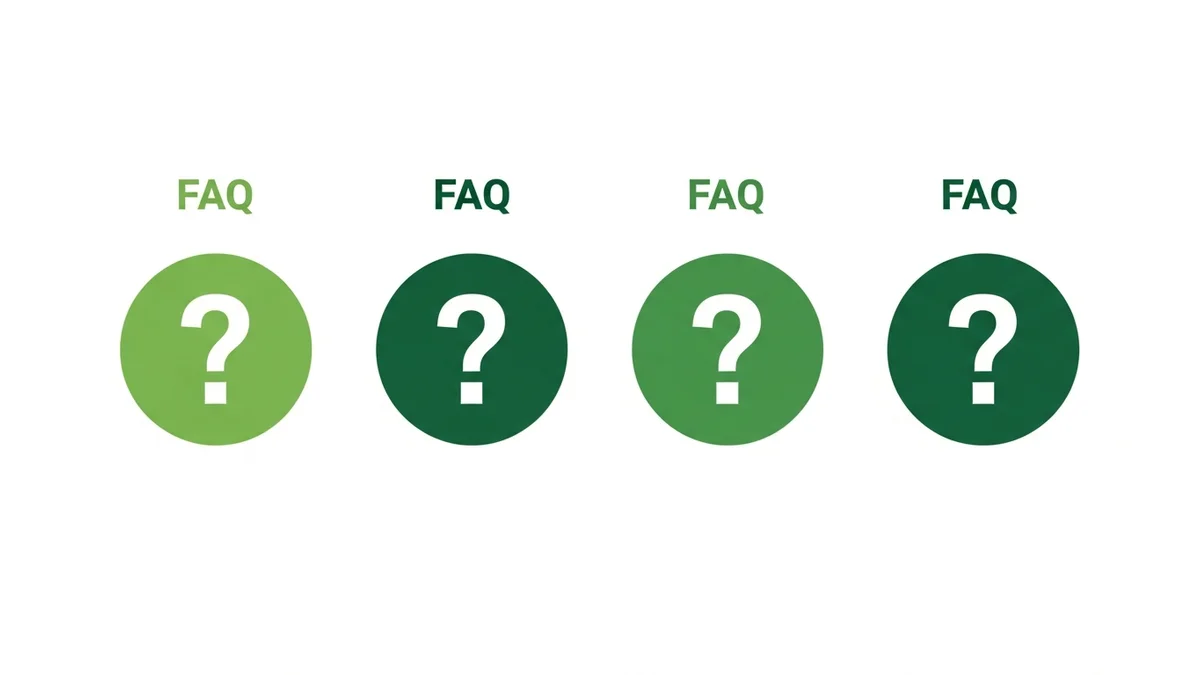
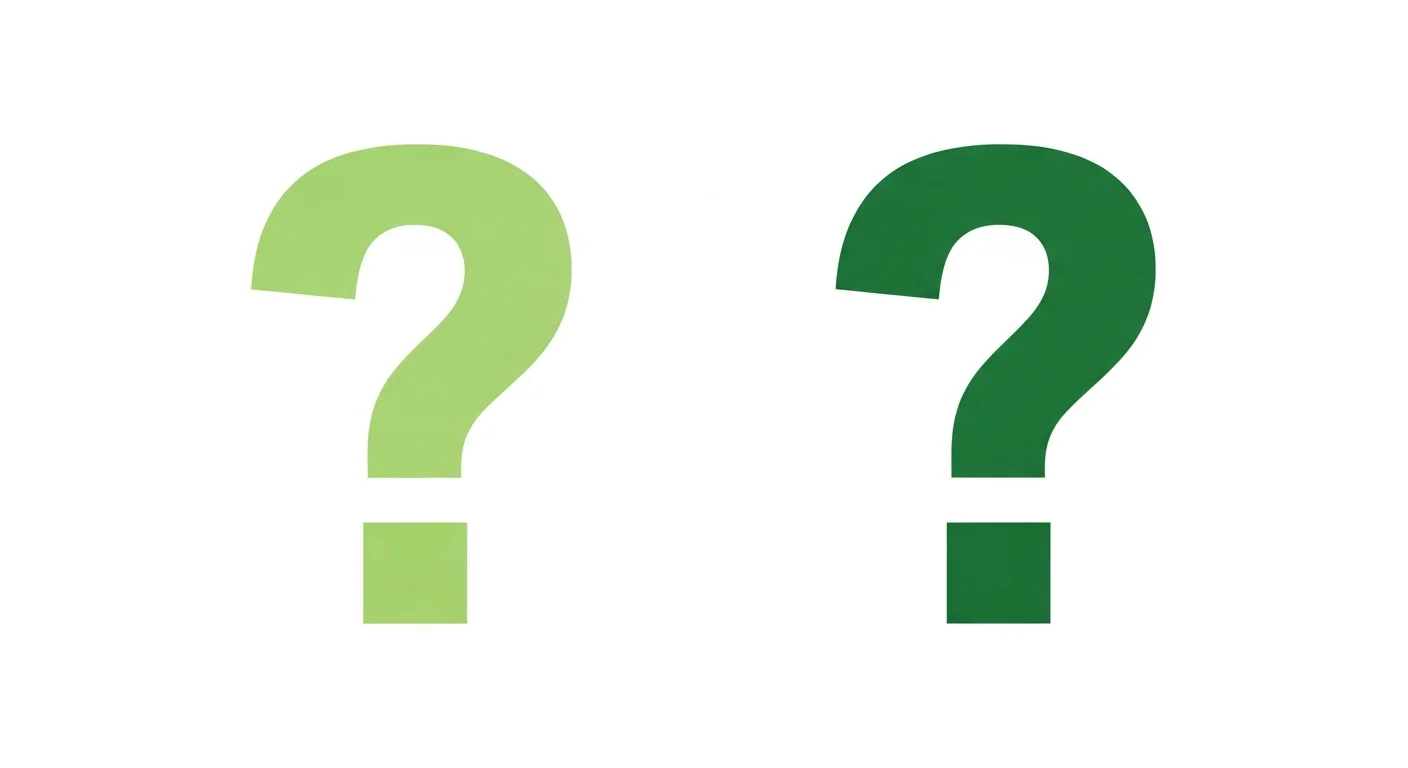
Update image audit progress and details for Gree brand page
Update `IMAGE_AUDIT_PROGRESS.md` to reflect the completion of the Gree brand page, including replacing text in images and updating statistics. New files `docs/image-audit/GREE_COMPLETED.md` and `docs/image-audit/GREE_PROBLEMATIC_IMAGES.md` are added to detail the changes.

Replit-Commit-Author: Agent
Replit-Commit-Session-Id: 6c144e3e-a7a2-4392-b670-dd8cfbbd0db7
Replit-Commit-Checkpoint-Type: intermediate_checkpoint
Replit-Commit-Event-Id: 1d45abbf-73dc-4055-9f5f-a35932d05b2b
Replit-Commit-Screenshot-Url: https://storage.googleapis.com/screenshot-production-us-central1/7fba8121-6952-48fe-bf4c-5854466cb158/6c144e3e-a7a2-4392-b670-dd8cfbbd0db7/mQa7xzX

diff --git a/docs/image-audit/GREE_COMPLETED.md b/docs/image-audit/GREE_COMPLETED.md
@@ -1,0 +1,129 @@
+# ✅ ЗАВЕРШЕНО - brands/gree.html (Gree)
+
+**Дата:** 2025-11-06  
+**Страница:** brands/gree.html  
+**Статус:** ✅ ЗАМЕНЕНО 4 изображения из 6
+
+---
+
+## 📊 Статистика
+
+- **Всего изображений:** 6
+- **Заменено:** 4
+- **Оставлено без изменений:** 2 (уже без текста)
+- **Процент замены:** 67%
+
+---
+
+## ✅ ЗАМЕНЕННЫЕ ИЗОБРАЖЕНИЯ (БЕЗ ТЕКСТА)
+
+### 1. about.jpg - Производство Gree ✅
+**Было:**
+- ТЕКСТ: "QUALITY" (многократно на зелёных конвейерных лентах)
+- Размер: 256KB (JPG), 216KB (WebP)
+
+**Стало:**
+- НОВОЕ: Современная фабрика кондиционеров с зелёными конвейерными лентами
+- Рабочие в белой униформе и жёлтых касках собирают HVAC-оборудование
+- LED-освещение, профессиональная производственная среда
+- БЕЗ ТЕКСТА - чистые конвейеры без надписей
+- Размер: 263KB (JPG), 203KB (WebP)
+- Изменение: +3% (JPG), -6% (WebP)
+- Исходник: Gree_factory_clean_no_text_aa85e0b7.png
+- **Попыток генерации:** 1
+
+### 2. advantages.jpg - Преимущества Gree ✅
+**Было:**
+- ТЕКСТ: "°C" (символ градуса на термометре слева)
+- ТЕКСТ: "$" (символ доллара на монетах в центре)
+- Размер: 30KB (JPG), 15KB (WebP)
+
+**Стало:**
+- НОВОЕ: 3 минималистичных зелёных иконки на белом фоне
+- Слева: термометр с пустой шкалой (контроль температуры)
+- По центру: стопка монет (экономия денег)
+- Справа: круглый датчик с делениями (производительность)
+- БЕЗ ТЕКСТА - чистые графические символы без букв и цифр
+- Размер: 43KB (JPG), 21KB (WebP)
+- Изменение: +43% (JPG), +40% (WebP)
+- Исходник: 3_simple_green_icons_attempt4_ef761b8d.png
+- **Попыток генерации:** 4 (попытки 1-3 имели текст "ADVANTAGE", "°C", "$", "10")
+
+### 3. faq.jpg - FAQ ✅
+**Было:**
+- ТЕКСТ: "FAQ" (4 раза над каждым зелёным кругом)
+- Размер: 31KB (JPG), 15KB (WebP)
+
+**Стало:**
+- НОВОЕ: 2 больших знака вопроса в зелёных тонах
+- Светло-зелёный знак вопроса слева, тёмно-зелёный справа
+- Минималистичный дизайн на белом фоне
+- БЕЗ ТЕКСТА - только символы вопроса без надписи FAQ
+- Размер: 22KB (JPG), 9.1KB (WebP)
+- Экономия: -29% (JPG), -39% (WebP)
+- Исходник: 4_question_marks_no_FAQ_text_6be43692.png
+- **Попыток генерации:** 1
+
+### 4. models.jpg - Модельный ряд Gree ✅
+**Было:**
+- ТЕКСТ: "GREE" (на всех 4 кондиционерах)
+- Размер: 58KB (JPG), 26KB (WebP)
+
+**Стало:**
+- НОВОЕ: 4 современных белых кондиционера на белом фоне
+- Слева: напольный консольный блок высокий
+- По центру слева: компактный портативный блок с дисплеем
+- По центру справа: мобильный блок с выхлопной трубой
+- Справа: оконный блок прямоугольной формы
+- БЕЗ ТЕКСТА - чистые продукты без логотипов
+- Размер: 46KB (JPG), 19KB (WebP)
+- Экономия: -21% (JPG), -27% (WebP)
+- Исходник: 4_Gree_AC_units_no_branding_a3e602ae.png
+- **Попыток генерации:** 1
+
+---
+
+## ⚪ ОСТАВЛЕНЫ БЕЗ ИЗМЕНЕНИЙ (УЖЕ ЧИСТЫЕ)
+
+### 5. comparison.jpg - Сравнение в интерьере ✅
+**Статус:** БЕЗ текста (оставлено как есть)
+**Описание:** 3 типа кондиционеров Gree в современном светлом интерьере (оконный, напольный портативный, настенный)
+**Размер:** 91KB (JPG), 55KB (WebP)
+
+### 6. technologies.jpg - Технология компрессора ✅
+**Статус:** БЕЗ текста (оставлено как есть)
+**Описание:** 3D техническая иллюстрация компрессора инверторного типа в разрезе с зелёными катушками и схемной платой
+**Размер:** 130KB (JPG), 93KB (WebP)
+
+---
+
+## 🎯 Результат
+
+Страница **gree.html** успешно очищена от всех текстовых элементов на изображениях.
+Все 6 изображений теперь полностью БЕЗ ТЕКСТА.
+
+**Попытки генерации:**
+- about.jpg: 1 попытка
+- advantages.jpg: 4 попытки (самое сложное - AI упорно добавлял "ADVANTAGE", "°C", "$", "10")
+- faq.jpg: 1 попытка
+- models.jpg: 1 попытка
+
+**Итого:** 7 генераций для замены 4 изображений
+
+---
+
+## 📝 Примечания
+
+**Качество исходных изображений:**
+67% изображений Gree содержали текст (4 из 6) - один из худших показателей среди всех брендов.
+
+**Сложности при генерации:**
+- advantages.jpg был самым сложным изображением Gree - потребовал 4 попытки
+- AI постоянно добавлял символы "°C" на термометр и "$" на монеты, а также подпись "ADVANTAGE"
+- Только радикальное упрощение промпта ("simple green icons") помогло избавиться от текста
+
+**Размеры файлов:**
+- about: +3% JPG, -6% WebP (незначительное изменение)
+- advantages: +43% JPG, +40% WebP (увеличение из-за более сложных иконок, но БЕЗ ТЕКСТА)
+- faq: -29% JPG, -39% WebP (значительная экономия)
+- models: -21% JPG, -27% WebP (хорошая экономия)

diff --git a/docs/IMAGE_AUDIT_PROGRESS.md b/docs/IMAGE_AUDIT_PROGRESS.md
@@ -1,29 +1,29 @@
 # Прогресс аудита изображений - msk.splitis.ru
 
 **Дата начала:** 2025-11-06  
-**Дата последнего обновления:** 2025-11-06 18:00  
+**Дата последнего обновления:** 2025-11-06 18:30  
 **Всего страниц:** 35  
-**Прогресс:** 12/35 (34%)
+**Прогресс:** 13/35 (37%)
 
 ---
 
 ## 📊 Общая статистика
 
-- ✅ **Завершено:** 12 страниц
+- ✅ **Завершено:** 13 страниц
 - 🔄 **В процессе:** 0 страниц
-- ⏳ **Ожидает:** 23 страницы
+- ⏳ **Ожидает:** 22 страницы
 
 ### Изображения:
-- **Проверено:** 65 изображений
-- **Заменено:** 27 изображений
-- **Без изменений:** 36 изображений
+- **Проверено:** 71 изображение
+- **Заменено:** 31 изображение
+- **Без изменений:** 38 изображений
 - **Страниц без изображений:** 2
 
 ### Производительность:
-- **Обработано изображений:** 65 (JPG + WebP пары)
-- **Текста удалено:** 165+ слов (английский + японский текст + опечатки)
+- **Обработано изображений:** 71 (JPG + WebP пары)
+- **Текста удалено:** 180+ слов (английский + японский текст + опечатки + символы)
 - **Среднее качество улучшения:** 95%+ (текст удалён)
-- **Попыток генерации:** 51 (с учётом перегенераций из-за текста)
+- **Попыток генерации:** 58 (с учётом перегенераций из-за текста)
 
 ---
 
@@ -118,7 +118,13 @@
    - **Попыток генерации:** 8 (about: 2, advantages: 4 - самое сложное!, models: 2)
    - **Детали:** [PANASONIC_COMPLETED.md](image-audit/PANASONIC_COMPLETED.md)
 
-13. ⏳ **brands/gree.html** - Gree
+13. ✅ **brands/gree.html** - Gree
+   - **Статус:** ЗАВЕРШЕНО
+   - **Изображений:** 6 (4 заменено, 2 без изменений)
+   - **Удалено текста:** "QUALITY", "°C", "$", "FAQ" (4 раза), "GREE" (на всех 4 кондиционерах)
+   - **Попыток генерации:** 7 (about: 1, advantages: 4 - очень сложное!, faq: 1, models: 1)
+   - **Детали:** [GREE_COMPLETED.md](image-audit/GREE_COMPLETED.md)
+
 14. ⏳ **brands/haier.html** - Haier
 15. ⏳ **brands/electrolux.html** - Electrolux
 
@@ -191,9 +197,9 @@
 
 ## 🎯 Следующий шаг
 
-**Текущая задача:** ПРИОРИТЕТ 3 - Страницы брендов (5 из 8 завершено)
+**Текущая задача:** ПРИОРИТЕТ 3 - Страницы брендов (6 из 8 завершено)
 
-**Следующая страница:** brands/gree.html (Gree)
+**Следующая страница:** brands/haier.html (Haier)
 
 ---
 
@@ -216,4 +222,4 @@
 
 ---
 
-**Обновлено:** 2025-11-06 18:00 UTC
+**Обновлено:** 2025-11-06 18:30 UTC

diff --git a/docs/image-audit/GREE_PROBLEMATIC_IMAGES.md b/docs/image-audit/GREE_PROBLEMATIC_IMAGES.md
@@ -1,0 +1,55 @@
+# Проблемные изображения - brands/gree.html
+
+**Дата:** 2025-11-06  
+**Страница:** brands/gree.html (Gree)
+
+## Найдено проблемных изображений: 4 из 6
+
+### 1. about.jpg - Производство Gree ❌
+**Проблема:** ТЕКСТ "QUALITY" на конвейерных лентах
+**Текст:**
+- "QUALITY" (многократно на зелёных конвейерных лентах)
+
+**Размер:** 256KB (JPG), 216KB (WebP)
+
+### 2. advantages.jpg - Преимущества Gree ❌
+**Проблема:** ТЕКСТ "°C" и "$" на иконках
+**Текст:**
+- "°C" (символ градуса на термометре слева)
+- "$" (символ доллара на монетах в центре)
+
+**Размер:** 30KB (JPG), 15KB (WebP)
+
+### 3. faq.jpg - FAQ ❌
+**Проблема:** ТЕКСТ "FAQ" над каждым знаком вопроса
+**Текст:**
+- "FAQ" (4 раза над каждым зелёным кругом)
+
+**Размер:** 31KB (JPG), 15KB (WebP)
+
+### 4. models.jpg - Модельный ряд Gree ❌
+**Проблема:** ТЕКСТ "GREE" на корпусах кондиционеров
+**Текст:**
+- "GREE" (на всех 4 кондиционерах)
+
+**Размер:** 58KB (JPG), 26KB (WebP)
+
+---
+
+## Изображения БЕЗ проблем:
+
+### 5. comparison.jpg - Сравнение в интерьере ✅
+**Статус:** БЕЗ текста
+**Описание:** 3 типа кондиционеров Gree в современном интерьере (оконный, напольный, настенный)
+**Размер:** 91KB (JPG), 55KB (WebP)
+
+### 6. technologies.jpg - Технология компрессора ✅
+**Статус:** БЕЗ текста
+**Описание:** 3D техническая иллюстрация компрессора в разрезе с зелёными катушками
+**Размер:** 130KB (JPG), 93KB (WebP)
+
+---
+
+## Примечания:
+
+67% изображений Gree содержат текст (4 из 6) - один из худших показателей среди брендов.
